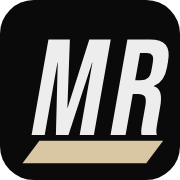
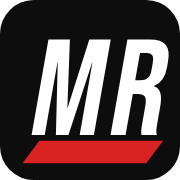
Cambios paleta colores

Changed region(s): [[0.1111, 0.7778, 0.9167, 0.9167]]

diff --git a/css/style.css b/css/style.css
@@ -5,12 +5,18 @@
    ========================================================= */
 
 :root {
-  --bg: #0a0a0a;
-  --bg-soft: #111111;
+  /* Paleta Persona 5: #0d0d0d · #d92323 · #732424 · #7b7b7b · #ffffff */
+  --bg: #0d0d0d;               /* negro */
+  --bg-soft: #151515;          /* negro un poco más claro (tarjetas) */
   --line: rgba(255, 255, 255, 0.12);
-  --text: #ededed;
-  --muted: #8c8c8c;
-  --accent: #d9c7a3;       
+  --text: #ffffff;             /* blanco */
+  --muted: #7b7b7b;            /* gris */
+  --accent: #d92323;           /* rojo principal */
+  --accent-rgb: 217, 35, 35;   /* el mismo rojo en R, G, B (para transparencias) */
+  --accent-dark: #732424;      /* rojo oscuro */
+  --accent-dark-rgb: 115, 36, 36;
+  --ink: #0d0d0d;              /* texto oscuro sobre fondos claros */
+  --on-accent: #ffffff;        /* texto sobre fondos rojos */
 
   --display: 'Bebas Neue', Impact, sans-serif;
   --body: 'Inter', system-ui, -apple-system, 'Segoe UI', sans-serif;
@@ -44,7 +50,7 @@ a { color: inherit; text-decoration: none; }
 ul { list-style: none; }
 h1, h2, h3 { font-weight: 400; }
 
-::selection { background: var(--accent); color: #0a0a0a; }
+::selection { background: var(--accent); color: var(--on-accent); }
 
 /* ---------- Scrollbar personalizada ---------- */
 html { scrollbar-width: thin; scrollbar-color: #2b2b2b var(--bg); }
@@ -96,7 +102,7 @@ html { scrollbar-width: thin; scrollbar-color: #2b2b2b var(--bg); }
   align-items: center;
   justify-content: space-between;
   padding: 1.1rem var(--pad);
-  background: linear-gradient(to bottom, rgba(10,10,10,0.85), rgba(10,10,10,0));
+  background: linear-gradient(to bottom, rgba(13,13,13,0.85), rgba(13,13,13,0));
   backdrop-filter: blur(6px);
   transition: transform 0.4s var(--ease);
 }
@@ -164,7 +170,7 @@ html { scrollbar-width: thin; scrollbar-color: #2b2b2b var(--bg); }
   align-items: flex-end;
   padding: 7rem var(--pad) 5rem;
   background:
-    radial-gradient(ellipse 60% 50% at 80% 20%, rgba(217,199,163,0.08), transparent 70%),
+    radial-gradient(ellipse 60% 50% at 80% 20%, rgba(var(--accent-rgb), 0.08), transparent 70%),
     var(--bg);
 }
 .hero__inner { width: 100%; max-width: var(--max); margin: 0 auto; }
@@ -206,9 +212,9 @@ html { scrollbar-width: thin; scrollbar-color: #2b2b2b var(--bg); }
   border: 1px solid var(--line);
   transition: background 0.3s, color 0.3s, border-color 0.3s;
 }
-.btn:hover { border-color: var(--accent); color: var(--accent); }
-.btn--solid { background: var(--text); color: #0a0a0a; border-color: var(--text); }
-.btn--solid:hover { background: var(--accent); border-color: var(--accent); color: #0a0a0a; }
+.btn:hover { background: var(--accent-dark); border-color: var(--accent-dark); color: var(--on-accent); }
+.btn--solid { background: var(--text); color: var(--ink); border-color: var(--text); }
+.btn--solid:hover { background: var(--accent); border-color: var(--accent); color: var(--on-accent); }
 
 .hero__scroll {
   position: absolute;
@@ -343,7 +349,7 @@ html { scrollbar-width: thin; scrollbar-color: #2b2b2b var(--bg); }
   color: var(--text);
   transition: background 0.3s, color 0.3s, border-color 0.3s;
 }
-.tags li:hover { background: var(--accent); border-color: var(--accent); color: #0a0a0a; }
+.tags li:hover { background: var(--accent); border-color: var(--accent); color: var(--on-accent); }
 .tags--small li { font-size: 0.72rem; padding: 0.25rem 0.7rem; color: var(--muted); }
 
 /* ---------- Filas (experiencia y formación) ---------- */
@@ -441,7 +447,7 @@ html { scrollbar-width: thin; scrollbar-color: #2b2b2b var(--bg); }
   padding-bottom: 0.2rem;
   transition: color 0.3s, border-color 0.3s;
 }
-.link:hover { color: var(--accent); border-color: var(--accent); }
+.link:hover { color: var(--text); border-color: var(--accent); }
 
 /* ---------- Idiomas ---------- */
 .languages {
@@ -504,7 +510,7 @@ html:not(.js) .lang__bar i { transform: none; }
   color: var(--muted);
   padding-top: 0.25rem;
 }
-.contact__list a:hover { color: var(--accent); }
+.contact__list a:hover { color: var(--text); text-decoration: underline; text-decoration-color: var(--accent); text-underline-offset: 4px; }
 
 .social {
   display: flex;
@@ -535,7 +541,7 @@ html:not(.js) .lang__bar i { transform: none; }
   text-transform: uppercase;
   color: var(--muted);
 }
-.footer a:hover { color: var(--accent); }
+.footer a:hover { color: var(--text); }
 
 /* ---------- Responsive ---------- */
 @media (max-width: 960px) {
@@ -550,7 +556,7 @@ html:not(.js) .lang__bar i { transform: none; }
     align-items: flex-start;
     gap: 0.4rem;
     padding: 0 var(--pad);
-    background: rgba(10, 10, 10, 0.97);
+    background: rgba(13, 13, 13, 0.97);
     opacity: 0;
     visibility: hidden;
     transition: opacity 0.4s var(--ease), visibility 0.4s;
@@ -664,8 +670,8 @@ html.lenis, html.lenis body { height: auto; }
 /* Brillo del hero que sigue al ratón */
 .hero {
   background:
-    radial-gradient(ellipse 45% 40% at var(--mx, 80%) var(--my, 20%), rgba(217, 199, 163, 0.10), transparent 70%),
-    radial-gradient(ellipse 60% 50% at 15% 90%, rgba(217, 199, 163, 0.04), transparent 70%),
+    radial-gradient(ellipse 45% 40% at var(--mx, 80%) var(--my, 20%), rgba(var(--accent-rgb), 0.16), transparent 70%),
+    radial-gradient(ellipse 60% 50% at 15% 90%, rgba(var(--accent-dark-rgb), 0.35), transparent 70%),
     var(--bg);
 }
 .hero__inner { will-change: transform, opacity; }
@@ -796,7 +802,7 @@ html.lenis, html.lenis body { height: auto; }
   position: absolute;
   inset: 0;
   pointer-events: none;
-  background: radial-gradient(380px circle at var(--gx, 50%) var(--gy, 50%), rgba(217, 199, 163, 0.10), transparent 45%);
+  background: radial-gradient(380px circle at var(--gx, 50%) var(--gy, 50%), rgba(var(--accent-rgb), 0.14), transparent 45%);
   opacity: 0;
   transition: opacity 0.4s;
 }
@@ -859,7 +865,7 @@ html, body { overflow-x: clip; }
   .nav {
     -webkit-backdrop-filter: none;
     backdrop-filter: none;
-    background: linear-gradient(to bottom, rgba(10, 10, 10, 0.95), rgba(10, 10, 10, 0));
+    background: linear-gradient(to bottom, rgba(13, 13, 13, 0.95), rgba(13, 13, 13, 0));
   }
   .nav__links a { font-size: clamp(2rem, 9vw, 2.8rem); }
 }
@@ -902,7 +908,7 @@ html, body { overflow-x: clip; }
   background: var(--text);
   color: #0a0a0a;
   cursor: pointer;
-  box-shadow: 6px 6px 0 rgba(217, 199, 163, 0.35);
+  box-shadow: 6px 6px 0 var(--accent);
   opacity: 0;
   transform: translateY(160%) skewX(-12deg);
   transition: transform 0.7s var(--ease-out), opacity 0.4s, background 0.3s, box-shadow 0.3s;
@@ -1044,7 +1050,7 @@ html, body { overflow-x: clip; }
   font-size: clamp(7rem, 22vw, 17rem);
   line-height: 1;
   color: transparent;
-  -webkit-text-stroke: 1px rgba(217, 199, 163, 0.25);
+  -webkit-text-stroke: 1.5px rgba(var(--accent-rgb), 0.35);
   pointer-events: none;
   translate: 0 calc(-50% + var(--py, 0px));
   opacity: 0;
@@ -1063,7 +1069,7 @@ html, body { overflow-x: clip; }
   aspect-ratio: 4 / 5;
   translate: 20px 20px;
   z-index: -1;
-  background: repeating-linear-gradient(-45deg, rgba(217, 199, 163, 0.5) 0 2px, transparent 2px 11px);
+  background: repeating-linear-gradient(-45deg, rgba(var(--accent-rgb), 0.65) 0 2px, transparent 2px 11px);
   clip-path: inset(0 100% 0 0);
   transition: clip-path 1.2s var(--ease-io) 0.7s;
 }
@@ -1107,7 +1113,7 @@ html, body { overflow-x: clip; }
   top: 0; bottom: 0; left: 0;
   width: 35%;
   pointer-events: none;
-  background: linear-gradient(90deg, transparent, rgba(217, 199, 163, 0.16), transparent);
+  background: linear-gradient(90deg, transparent, rgba(var(--accent-rgb), 0.22), transparent);
   transform: translateX(-150%) skewX(-20deg);
 }
 .js #experiencia .row.is-visible::after { animation: sweep 1.3s var(--ease-io) calc(var(--d, 0s) + 0.3s) both; }
@@ -1210,3 +1216,89 @@ html, body { overflow-x: clip; }
   text-transform: uppercase;
   color: var(--muted);
 }
+
+
+/* =========================================================
+   PALETA PERSONA 5
+   Negro #0d0d0d · Rojo #d92323 · Rojo oscuro #732424
+   Gris #7b7b7b · Blanco #ffffff
+   ========================================================= */
+
+/* Forma de "etiqueta" inclinada que se repite por la web */
+.eyebrow,
+.section__num,
+.card__label,
+.lang__top span {
+  display: inline-block;
+  background: var(--accent);
+  color: var(--on-accent);
+  clip-path: polygon(7% 0, 100% 0, 93% 100%, 0 100%);
+}
+
+/* Portada */
+.eyebrow { padding: 0.45rem 1.3rem; font-weight: 600; }
+.intro-done .hero__title .char:hover { color: var(--accent); }
+
+/* Banda de skills: franja roja inclinada */
+.marquee {
+  position: relative;
+  z-index: 2;
+  margin: 1.5rem 0;
+  padding: 1.1rem 0;
+  border: 0;
+  background: var(--accent);
+  box-shadow: 0 10px 0 var(--accent-dark);
+  transform: rotate(-1.5deg) scaleX(1.04);
+}
+.marquee__item { color: var(--ink); }
+.marquee__item.is-outline { color: transparent; -webkit-text-stroke: 1.2px var(--ink); }
+.marquee__sep { color: var(--on-accent); }
+
+/* Títulos de sección */
+.section__num {
+  padding: 0.2rem 0.65rem;
+  font-weight: 600;
+  letter-spacing: 0.12em;
+  align-self: center;
+}
+
+/* Tarjetas (skills y cursos) */
+.card__label { padding: 0.3rem 0.9rem; font-weight: 600; margin-bottom: 0.9rem; }
+.card:hover { border-color: var(--accent); }
+.tags li { border-color: rgba(255, 255, 255, 0.18); }
+
+/* Experiencia y formación */
+.row__org { color: var(--text); font-weight: 500; }
+.row__org::before { content: '/ '; color: var(--accent); font-weight: 700; }
+
+/* Idiomas */
+.lang__top span { padding: 0.2rem 0.7rem; font-weight: 600; color: var(--on-accent); }
+.lang__bar { height: 4px; background: rgba(255, 255, 255, 0.08); }
+
+/* Contacto */
+.contact__mail:hover { color: var(--accent); border-color: var(--accent); }
+.social:hover { color: var(--accent); }
+
+/* Menú flotante: cada opción de un color, como los menús del juego */
+.fnav__btn { background: var(--text); color: var(--ink); box-shadow: 6px 6px 0 var(--accent); }
+.fnav__btn:hover { background: var(--text); box-shadow: 9px 9px 0 var(--accent); }
+.fnav.is-open .fnav__btn { background: var(--accent); color: var(--on-accent); box-shadow: 6px 6px 0 var(--accent-dark); }
+.fnav__num { background: var(--accent); color: var(--on-accent); }
+.fnav.is-open .fnav__num { background: var(--ink); }
+
+.fnav__menu a:nth-child(3n + 1) { background: var(--ink); color: var(--text); border-color: rgba(255, 255, 255, 0.25); }
+.fnav__menu a:nth-child(3n + 2) { background: var(--text); color: var(--ink); border-color: var(--text); }
+.fnav__menu a:nth-child(3n + 3) { background: var(--accent-dark); color: var(--text); border-color: var(--accent-dark); }
+.fnav__menu a:nth-child(3n + 1) small { color: var(--muted); }
+.fnav__menu a:nth-child(3n + 2) small { color: var(--muted); }
+.fnav__menu a:nth-child(3n + 3) small { color: rgba(255, 255, 255, 0.6); }
+
+.fnav__menu a.is-active,
+.fnav.is-open .fnav__menu a:hover {
+  background: var(--accent);
+  color: var(--on-accent);
+  border-color: var(--accent);
+  box-shadow: 5px 5px 0 var(--ink);
+}
+.fnav__menu a.is-active small,
+.fnav__menu a:hover small { color: var(--on-accent); }

diff --git a/index.html b/index.html
@@ -5,7 +5,7 @@
     <meta name="viewport" content="width=device-width, initial-scale=1.0">
     <title>Marco Roblin Bianchi | Portfolio</title>
     <meta name="description" content="Portfolio de Marco Roblin Bianchi, estudiante de Administración de Sistemas Informáticos en Red (ASIR).">
-    <meta name="theme-color" content="#0a0a0a">
+    <meta name="theme-color" content="#0d0d0d">
 
     <!-- Vista previa al compartir el enlace (LinkedIn, WhatsApp, X, Discord...) -->
     <link rel="canonical" href="https://mroblinb.github.io/">
@@ -15,7 +15,7 @@
     <meta property="og:url" content="https://mroblinb.github.io/">
     <meta property="og:title" content="Marco Roblin Bianchi | Portfolio">
     <meta property="og:description" content="Estudiante de Administración de Sistemas Informáticos en Red (ASIR). Redes, sistemas, bases de datos y desarrollo web.">
-    <meta property="og:image" content="https://mroblinb.github.io/img/og-image.jpg">
+    <meta property="og:image" content="https://mroblinb.github.io/img/og-image.jpg?v=2">
     <meta property="og:image:width" content="1200">
     <meta property="og:image:height" content="630">
     <meta property="og:image:alt" content="Marco Roblin Bianchi, portfolio de ASIR">
@@ -29,8 +29,8 @@
     <link rel="icon" href="favicon.svg" type="image/svg+xml">
     <link rel="apple-touch-icon" href="apple-touch-icon.png">
 
-    <!-- ?v=2: súbelo (v=3, v=4...) cada vez que cambies el CSS o el JS para que los navegadores no usen la versión antigua -->
-    <link rel="stylesheet" href="css/style.css?v=2">
+    <!-- Número de versión (?v=3): súbelo (v=4, v=5...) cada vez que cambies el CSS o el JS para que los navegadores no usen la versión antigua -->
+    <link rel="stylesheet" href="css/style.css?v=3">
 
   <!-- Activa las animaciones solo si JavaScript funciona -->
   <script>document.documentElement.classList.add('js');</script>
@@ -507,6 +507,6 @@
     <a href="#inicio">Volver arriba ↑</a>
   </footer>
 
-  <script src="js/main.js?v=2"></script>
+  <script src="js/main.js?v=3"></script>
 </body>
 </html>
